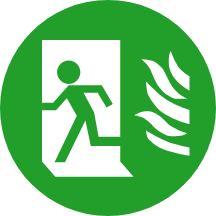
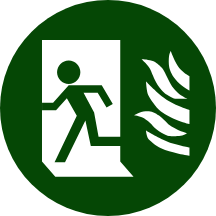
Pre-Release 0.6.1
- Keep Perpective function
- New Icons
- General Bug Fixes

diff --git a/public/maintour/index.js b/public/maintour/index.js
@@ -172,13 +172,22 @@
     return s.replace('&', '&amp;').replace('<', '&lt;').replace('>', '&gt;');
   }
 
+  var prevView;
+
   function switchScene(scene) {
+    prevView = currScene;
     currScene = scene;
 
+    var params = Object.assign({}, scene.data.initialViewParameters);
+
+    if (prevView && !currScene.data.specialYaw) {
+      params.yaw = prevView.view._yaw;
+    }
+    
     if (parent.changeFloor)
       parent.changeFloor(scene.data.name);
 
-    scene.view.setParameters(scene.data.initialViewParameters);
+    scene.view.setParameters(params);
     scene.scene.switchTo();
   }
 
